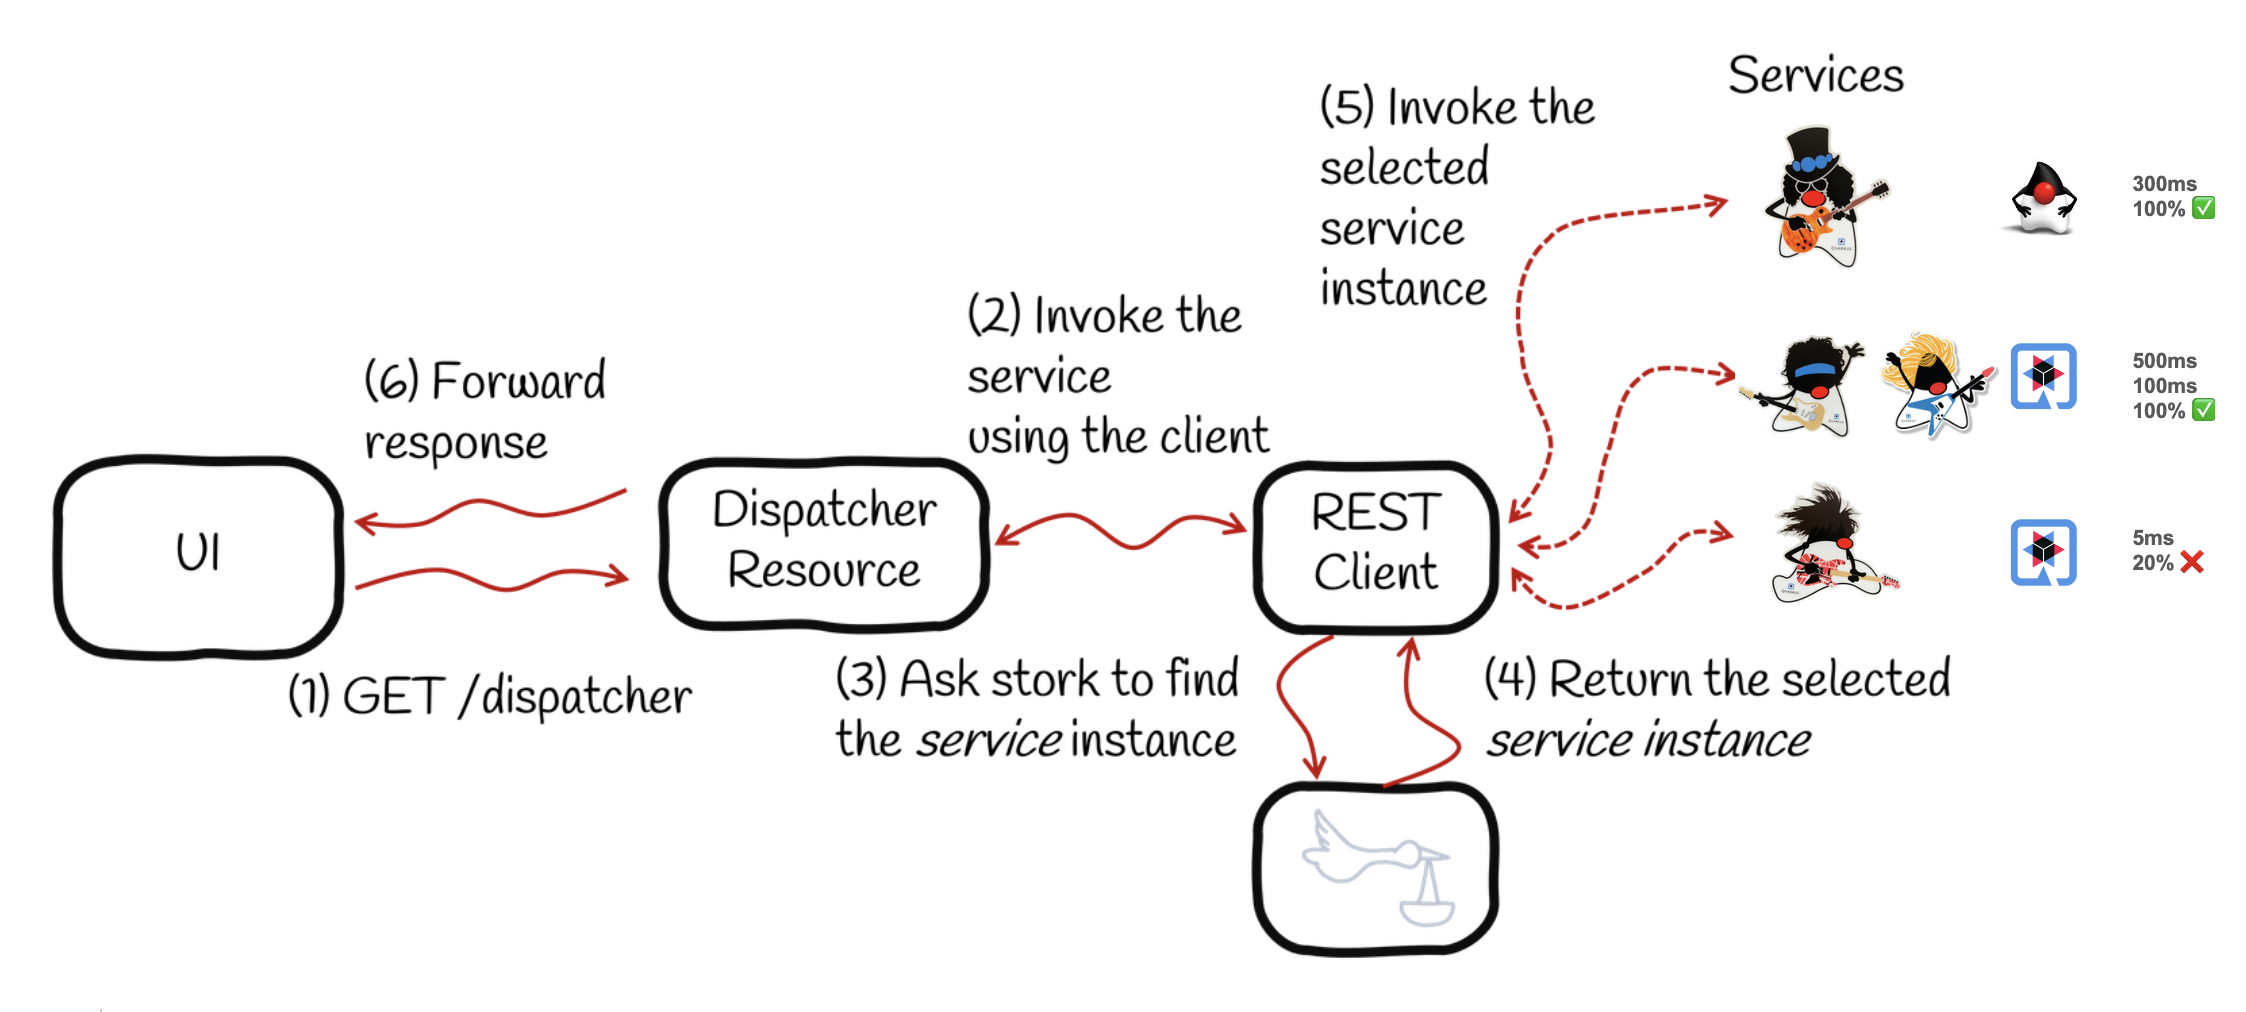
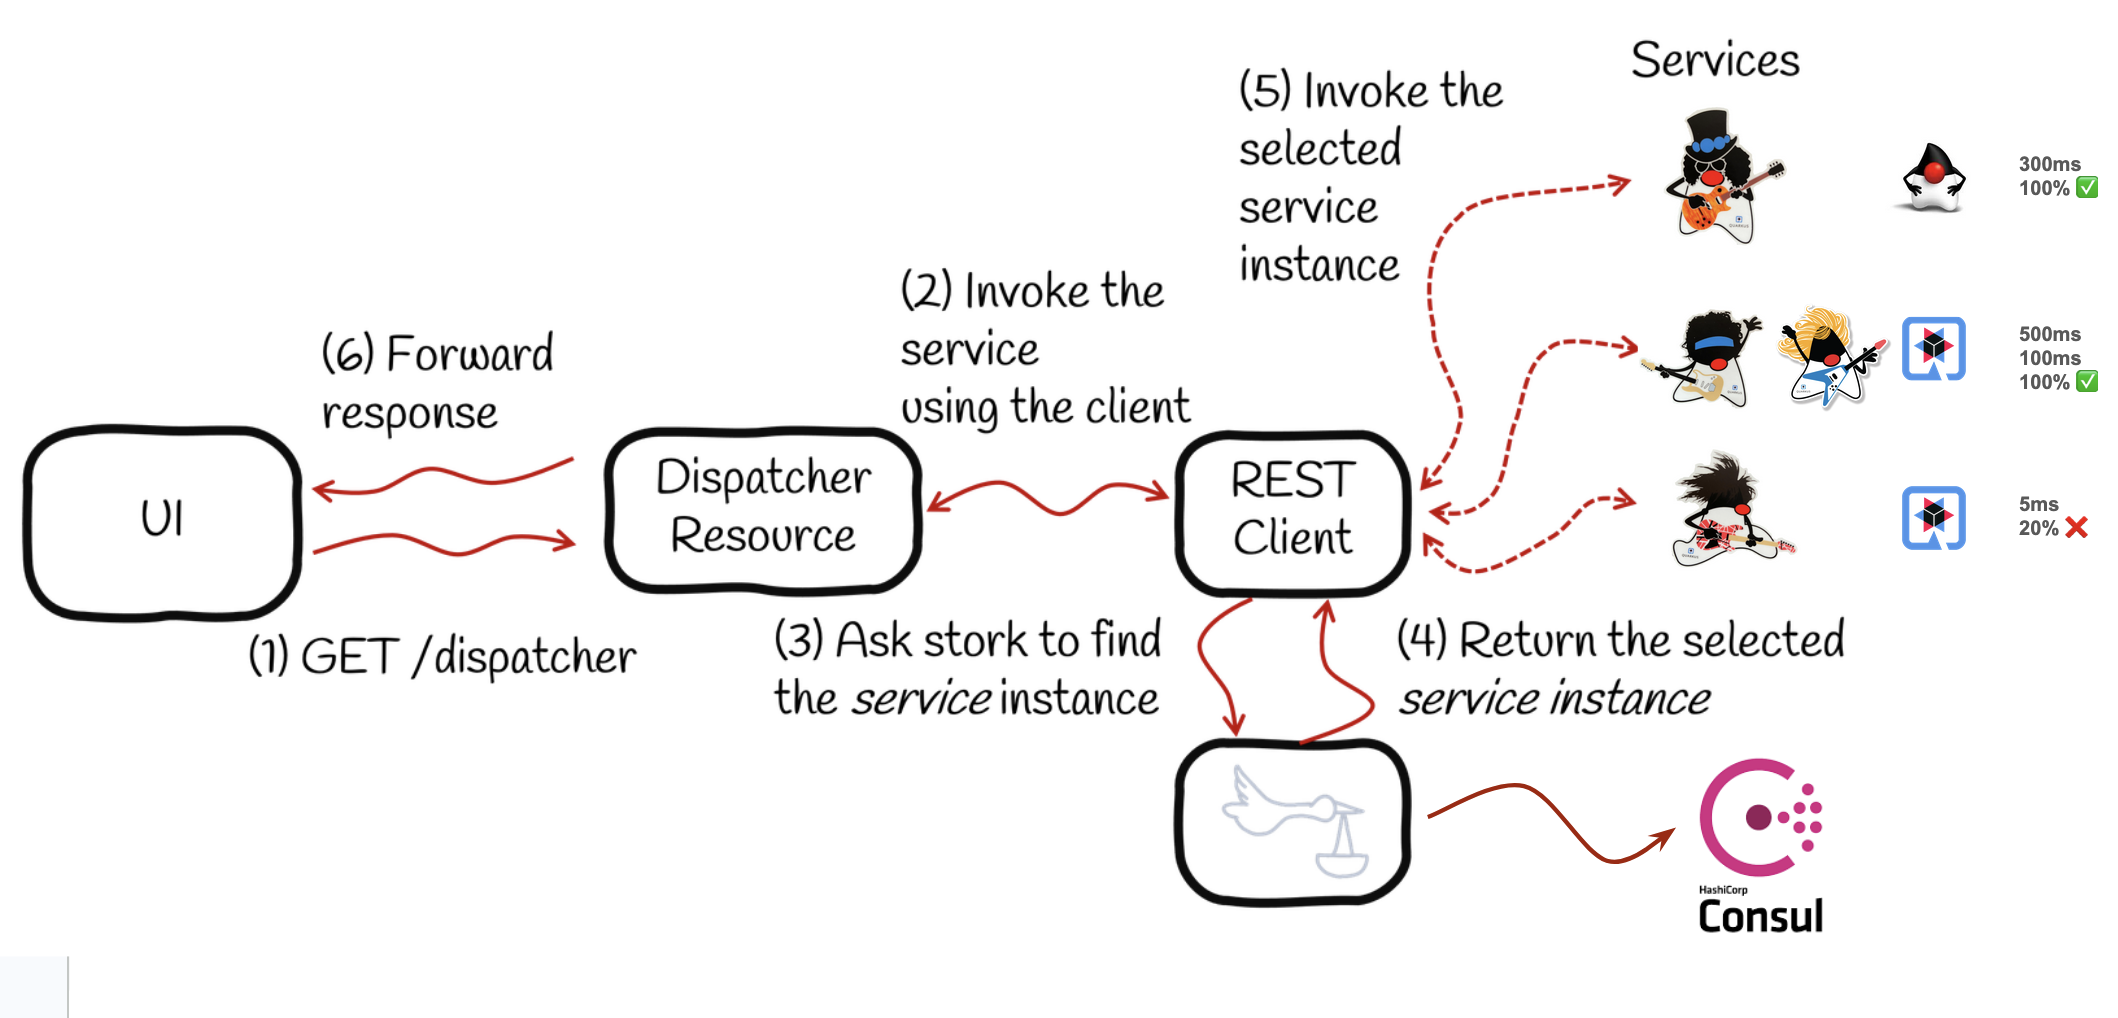
Refactor according to reharsals

diff --git a/ui/src/main/resources/templates/index.html b/ui/src/main/resources/templates/index.html
@@ -359,9 +359,10 @@
             </div>
             <aside class="notes">
                 Esta es la arquitectura de nuestra demo. Para el service registry vamos a usar Consul, aunque como hemos visto, Stork también soporta Eureka, Kubernetes y otros.
-                Tenemos cuatro servicios "guitarrista", cada uno con un comportamiento diferente: Slash responde en 300ms y es 100% fiable. Flying V también es fiable pero más rápido, unos 100ms. Hendrix es más lento, 500ms, aunque también fiable. Y Eddie es rapidísimo, solo 5ms, pero tiene un 20% de probabilidad de fallar, como buen rockero.
-                Hay una diferencia importante entre ellos: Slash es un servicio Java puro, sin framework — se registra en Consul programáticamente usando la API de Stork directamente. Los demás — Hendrix, Eddie y Flying V — son servicios Quarkus que aprovechan el auto-registro: basta con añadir la dependencia y la configuración, y se registran solos al arrancar. Esto nos va a permitir comparar ambos enfoques en la demo.
-                Luego tenemos el dispatcher — el componente que recibe las peticiones y usa Stork para descubrir los guitarristas disponibles y balancear la carga entre ellos. En realidad tenemos dos dispatchers: uno hecho con Quarkus, donde la integración con Stork es declarativa — pones stork:// en el REST client y ya está — y otro con Spring Boot, donde usamos la API de Stork directamente de forma programática. Ambos conectan contra el mismo Consul y los mismos guitarristas, así que podremos compararlos side by side más adelante.
+                Tenemos cuatro servicios "guitarrista", cada uno con un comportamiento diferente: Slash responde en 300ms y es 100% fiable.
+                Randy también es fiable pero más rápido, unos 100ms. Hendrix es más lento, 500ms, aunque también fiable. Y Eddie es rapidísimo, solo 5ms, pero tiene un 20% de probabilidad de fallar, como buen rockero.
+                Hay una diferencia importante entre ellos: Slash es un servicio Java puro, sin framework — se registra en Consul programáticamente usando la API de Stork directamente. Los demás — Hendrix, Eddie y Flying V — son servicios Quarkus que aprovechan el auto-registro: basta con añadir la dependencia y la configuración, y se registran solos al arrancar.
+                Luego tenemos el dispatcher, el componente que recibe las peticiones y delega en Stork para descubrir los guitarristas disponibles y balancear la carga entre ellos. En realidad tenemos dos dispatchers: uno hecho con Quarkus y otro con Spring Boot. Ambos conectan contra el mismo Consul y los mismos guitarristas, así que podremos compararlos.
                 Y por último, una interfaz web desde la que vamos a atacar al dipatcher que nos permite lanzar peticiones y ver visualmente qué guitarrista responde a cada una.
 
                 DEMO: abrir intellij y enseñar los diferentes módulos para que se vean las cajitas de la arquitectura.
@@ -783,7 +784,10 @@ ServiceInstance inst = svc.selectInstance().await()...;
         <!-- ============== CLOSING ============== -->
         <section>
             <h1>Thank you!</h1>
-            <p style="font-size:0.7em; margin-top:1em;">SmallRye Stork — <a href="https://smallrye.io/smallrye-stork">smallrye.io/smallrye-stork</a></p>
+            <p style="font-size:0.7em; margin-top:0.5em;">SmallRye Stork — <a href="https://smallrye.io/smallrye-stork">smallrye.io/smallrye-stork</a></p>
+            <div style="display: flex; justify-content: center; margin-top: 0.5em;">
+                <img src="/images/storkfest-qrcode.png" alt="QR Code" style="max-height: 30vh; border-radius: 8px;">
+            </div>
             <aside class="notes">
                 Y con esto terminamos nuestro Stork Fest. Si queréis probarlo, toda la documentación está en smallrye.io/smallrye-stork. Y el código de esta demo está disponible en mi GitHub. Muchas gracias, y si tenéis preguntas, estoy por aquí.
             </aside>
